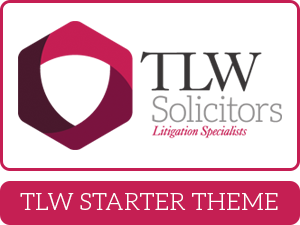
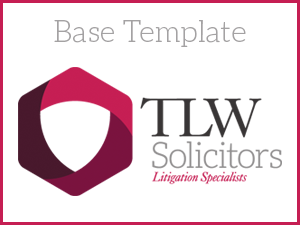
Fri 17 Jan 2013 changes
Change screenshot and remove editor buttons function.

diff --git a/functions.php b/functions.php
@@ -35,7 +35,7 @@ add_custom_background();
 /* CUSTOM FUNCTIONS ----------------------------------------*/
 
 /* CHANGE EDITOR BUTTONS */
-include (TEMPLATEPATH . '/_/functions/change-editor-buttons.php');
+//include (TEMPLATEPATH . '/_/functions/change-editor-buttons.php');
 
 //CHANGE DEFAULT LABELS AND ICONS
 include (TEMPLATEPATH . '/_/functions/change-default-labels.php');
